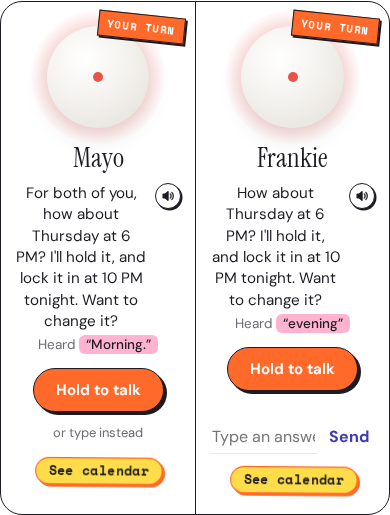
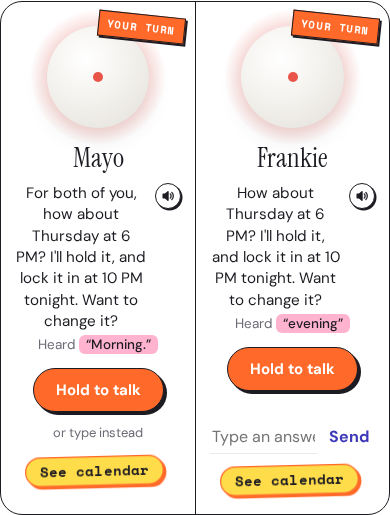
Simulator: See calendar nudge fix; intro line on the start screen

Changed region(s): [[0.5538, 0.901, 0.9231, 0.9942], [0.0615, 0.8699, 0.4308, 0.9631]]

diff --git a/web/sim.html b/web/sim.html
@@ -44,6 +44,7 @@ h1{font-family:var(--display);font-size:1em;line-height:.9;letter-spacing:-.045e
 .col{min-width:0;display:flex;flex-direction:column}
 .status{min-height:62px}
 .status .now{display:block;font-family:var(--serif);font-size:30px;line-height:1.05;letter-spacing:-.01em}
+.status .intro{display:block;font-size:13px;line-height:1.35;color:var(--ink);margin-bottom:6px;max-width:34em;text-wrap:pretty}
 .status .hint{display:block;color:var(--soft);font-size:14px;margin-top:4px;line-height:1.35}
 
 /* section titles, ticket-style: "the plan ( 02 )" */
@@ -197,14 +198,15 @@ footer .link{font-size:12.5px;padding:0}
 .calbtn:hover{background:var(--hair)}
 /* once a time is pencilled in: nudge judges to open a calendar, until one is opened */
 .calbtn{transition:background .3s,border-color .3s,box-shadow .3s;position:relative;z-index:2}
-.calbtn.nudge{background:var(--yellow);border-color:var(--orange);color:var(--ink);font-weight:700;box-shadow:2px 2px 0 var(--orange);animation:calnudge 3.2s ease-in-out infinite}
+.calbtn.nudge{background:var(--yellow);border-color:var(--orange);color:var(--ink);font-weight:700;box-shadow:2px 2px 0 var(--orange);transform:scale(1.2);animation:calnudge 1.6s ease-in-out infinite}
 .calbtn.nudge:hover{background:#ffe774}
 @keyframes calnudge{
-  0%{transform:scale(1)} 8%{transform:scale(1.14)}
-  11%{transform:scale(1.14) translateX(-4px) rotate(-2deg)} 14%{transform:scale(1.14) translateX(4px) rotate(2deg)}
-  17%{transform:scale(1.14) translateX(-3px) rotate(-1.5deg)} 20%{transform:scale(1.14) translateX(3px) rotate(1.5deg)}
-  23%{transform:scale(1.14) translateX(0)} 60%{transform:scale(1.14)} 75%,100%{transform:scale(1)}}
-@media (prefers-reduced-motion: reduce){.calbtn.nudge{animation:none}}
+  0%,34%,100%{transform:scale(1.2) translateX(0) rotate(0)}
+  6%{transform:scale(1.24) translateX(-6px) rotate(-3deg)} 12%{transform:scale(1.24) translateX(6px) rotate(3deg)}
+  18%{transform:scale(1.22) translateX(-5px) rotate(-2deg)} 24%{transform:scale(1.22) translateX(5px) rotate(2deg)}
+  30%{transform:scale(1.2) translateX(-2px)}}
+@keyframes calpulse{0%,100%{transform:scale(1.2)} 50%{transform:scale(1.3)}}
+@media (prefers-reduced-motion: reduce){.calbtn.nudge{animation:calpulse 1.6s ease-in-out infinite}}
 .calov{display:none}
 .calov.open{display:block}
 .calcard{background:#fff;display:flex;flex-direction:column}
@@ -340,7 +342,7 @@ footer .link{font-size:12.5px;padding:0}
 
   <main class="stage">
     <div class="col">
-      <div class="status"><span class="now" id="now">Touch the Dots together.</span><span class="hint" id="hint">Drag one onto the other, or tap Pair.</span></div>
+      <div class="status"><span class="intro" id="intro">You and Frankie mentioned hanging out next week. Ketchup will help you make it happen!</span><span class="now" id="now">Touch the Dots together.</span><span class="hint" id="hint">Drag one onto the other, or tap Pair.</span></div>
       <section class="pair" id="stage">
         <button class="btn orange pairbtn" id="tapbtn">Pair</button>
         <div class="side" id="side-mayo">
@@ -388,7 +390,7 @@ const $ = s => document.querySelector(s);
 const KEYS = ["mayo", "frankie"];
 const NAMES = {mayo: "Mayo", frankie: "Frankie"};
 const DONE = ["booked", "agreed (dry run, not booked)"];
-let calSeen = false;  // a calendar was opened this session, so stop the "See calendar" nudge
+let calSeen = false, nudgeLast = null;  // calSeen: a calendar was opened after a time was pencilled in, so stop the "See calendar" nudge
 let sid = null, view = null, lineCount = 0, polling = null, busy = {mayo: false, frankie: false};
 let errs = {mayo: "", frankie: "", global: ""}, health = {};
 let fadeUntil = {mayo: 0, frankie: 0}, lastState = null, typeOpen = {mayo: false, frankie: false}, weekData = null;
@@ -591,14 +593,19 @@ function render() {
   }
   if (errs.global) hint = errs.global;
   $("#now").textContent = now; $("#hint").textContent = hint;
+  $("#intro").style.display = sid ? "none" : "";  // the intro line is for the start screen only
   $("#tapbtn").style.display = sid && !isOver() ? "none" : "";
   $("#tapbtn").textContent = sid ? "Pair again" : "Pair";
   $("#phrase").disabled = !!sid && !isOver();
   $("#skip").style.display = st === "pencilled_in" ? "" : "none";
   nudgeCal(); renderCard(); renderCalls();
 }
+const timeChosen = st => st === "pencilled_in" || DONE.includes(st);
 function nudgeCal() {
-  const st = view ? view.state : "idle", on = !!sid && !calSeen && (st === "pencilled_in" || DONE.includes(st));
+  const st = view ? view.state : "idle";
+  if (st === "pencilled_in" && nudgeLast !== st) calSeen = false;  // a (new) time was just pencilled in: opens before this don't count
+  nudgeLast = st;
+  const on = !!sid && !calSeen && timeChosen(st);
   document.querySelectorAll(".calbtn").forEach(b => b.classList.toggle("nudge", on));
 }
 function renderCard() {
@@ -717,7 +724,7 @@ function renderCal() {
   }).join("")}</div>`;
 }
 function openCal(k, from) {
-  calShow = k; calFrom = from || calFrom; calSeen = true; nudgeCal(); $("#calov").classList.add("open"); document.body.classList.add("calopen");
+  calShow = k; calFrom = from || calFrom; if (sid && view && timeChosen(view.state)) calSeen = true; nudgeCal(); $("#calov").classList.add("open"); document.body.classList.add("calopen");
   if (!wide()) scrollTo(0, 0);
   renderCal(); loadWeek();
   $("#calx").focus({preventScroll: true});
